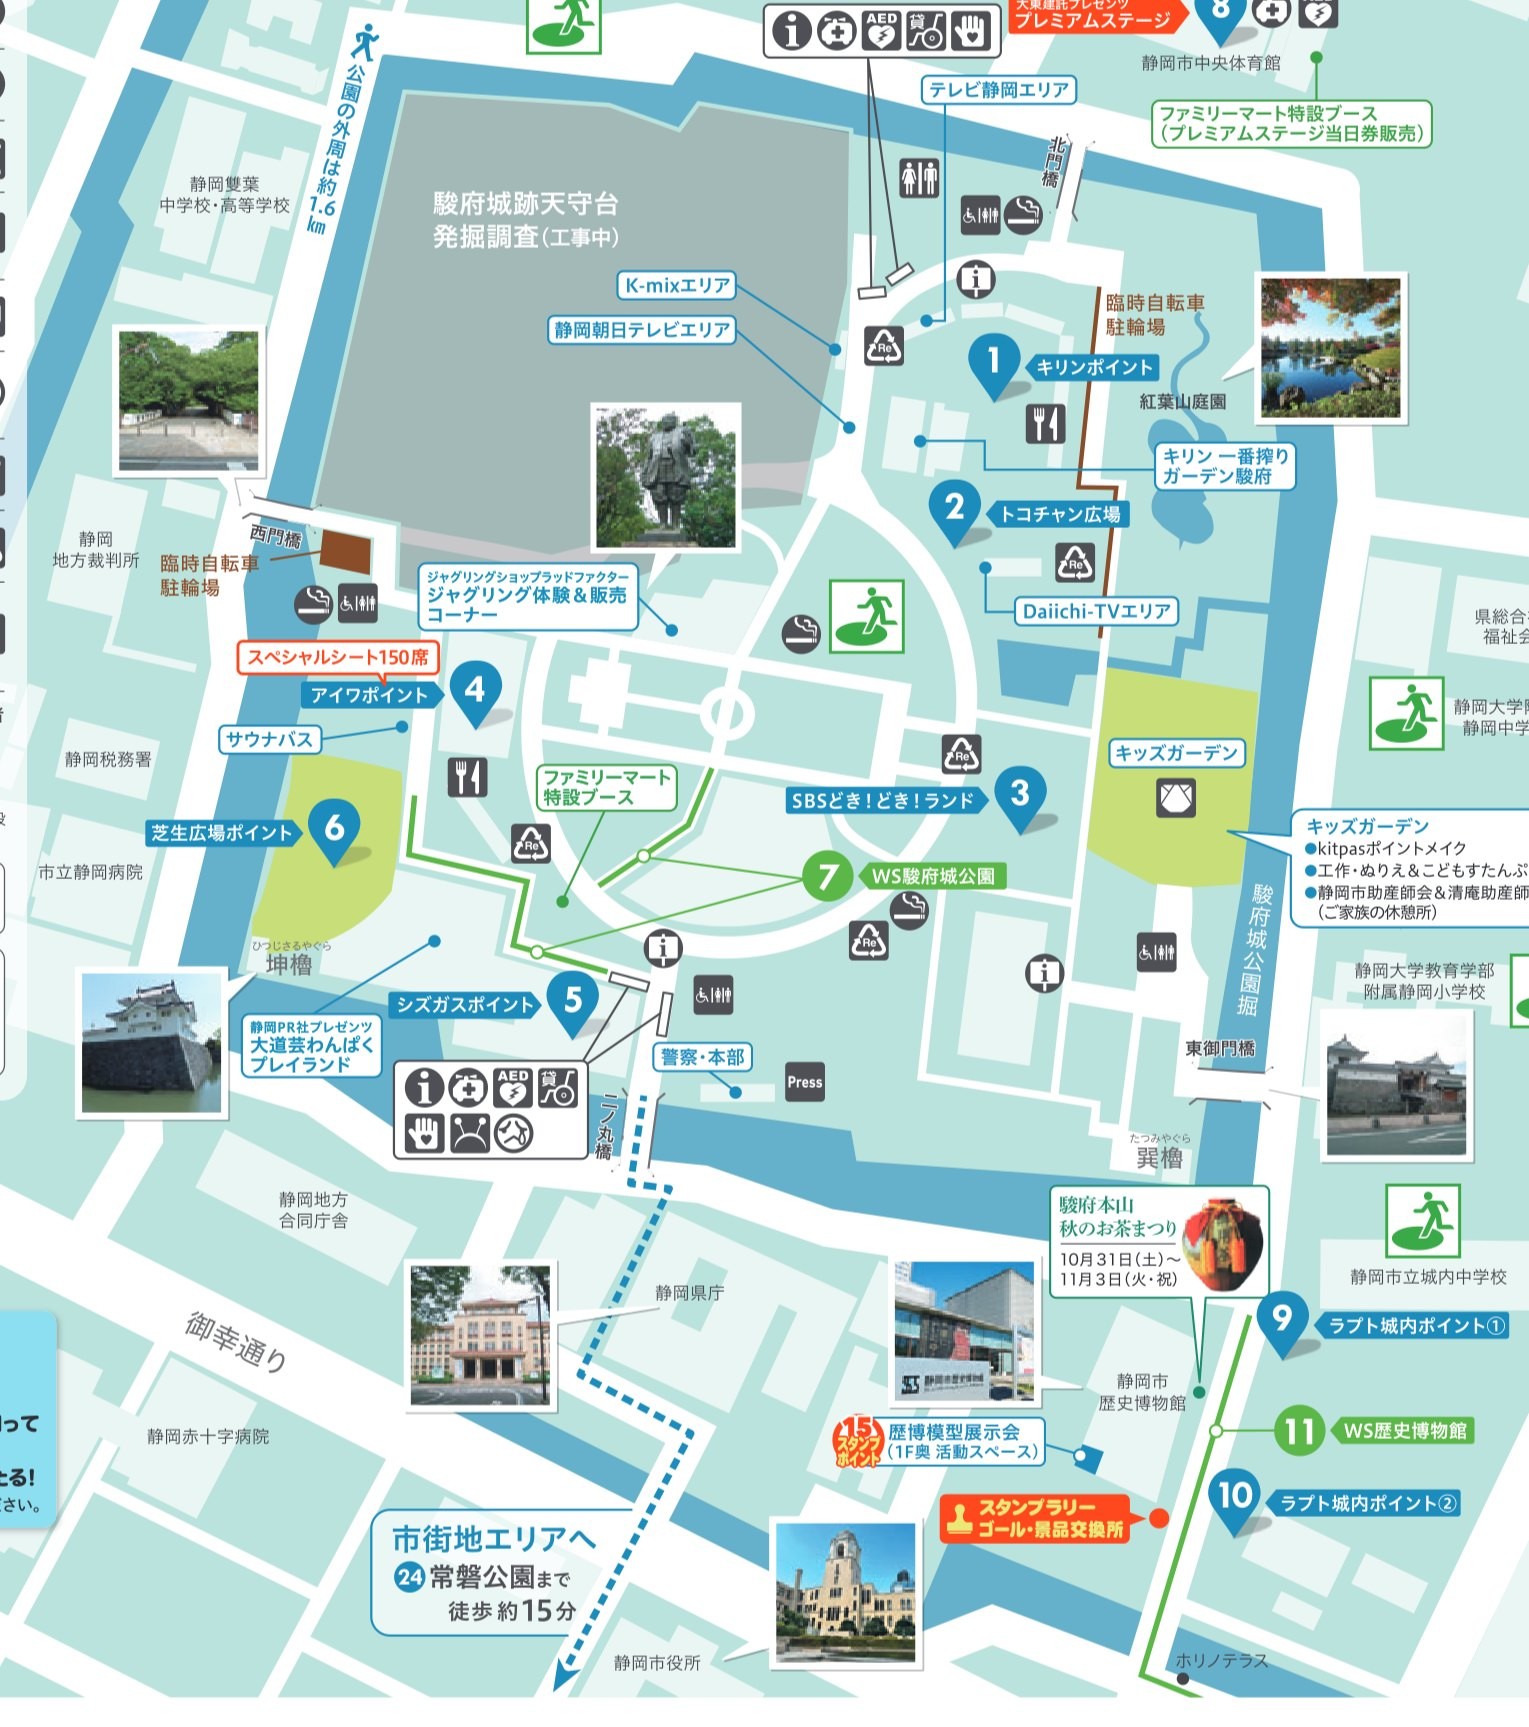
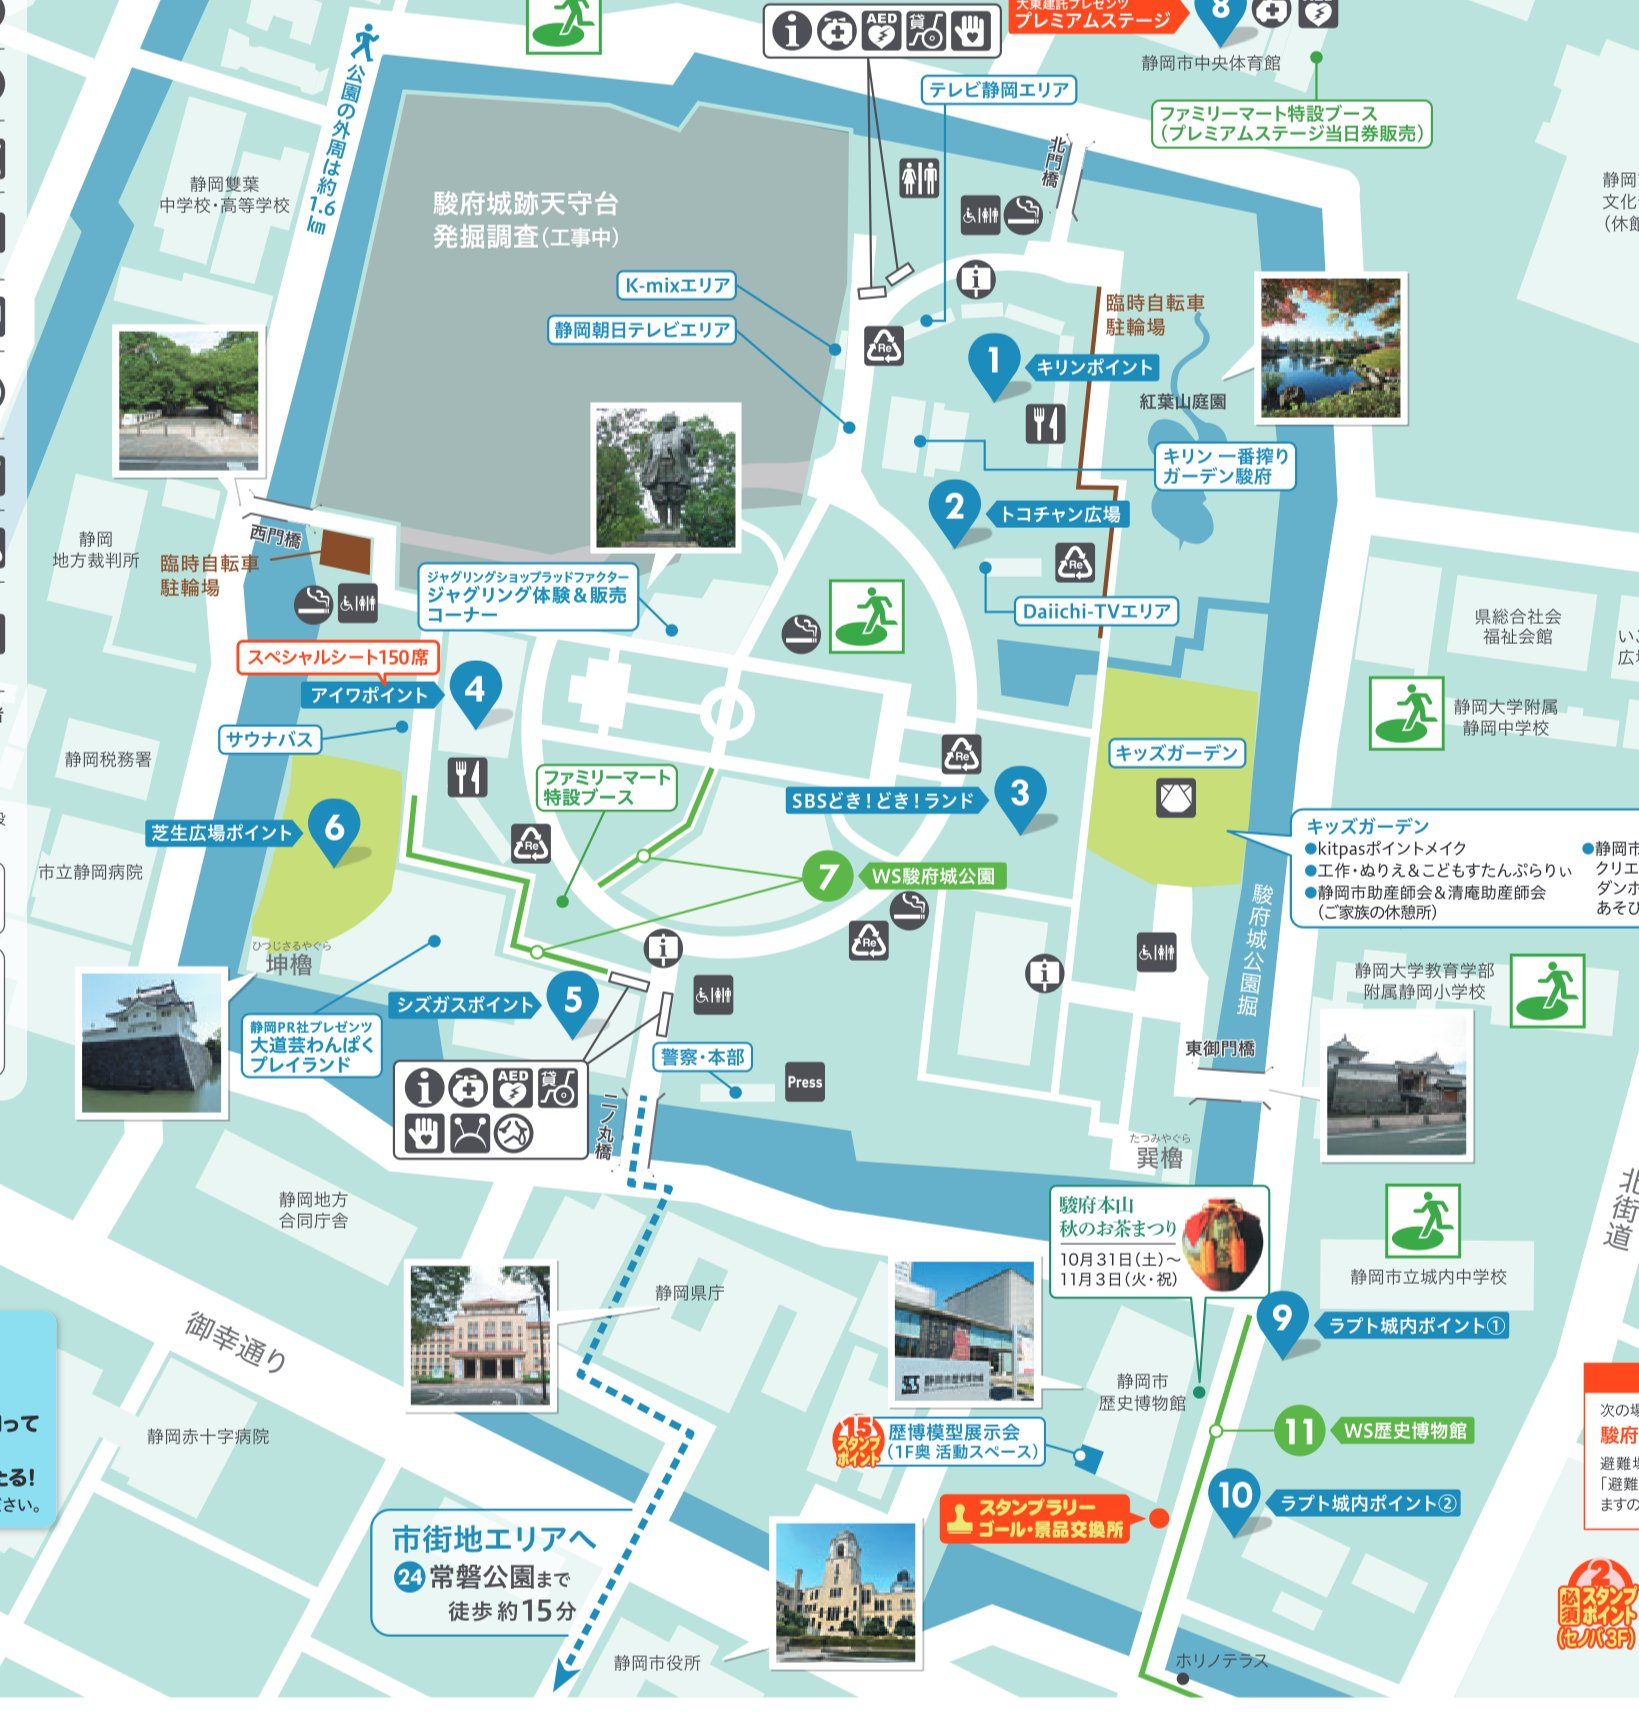
地図の右端を広げて会場ラベルを収める / 探すタブに有料ステージの扱いを明記

diff --git a/index.html b/index.html
@@ -152,7 +152,7 @@
   </section>
 
   <section id="v-find">
-    <p class="lead">見たい人が決まっているなら「アーティスト」から。時間だけ決まっているなら上の枠から。</p>
+    <p class="lead">見たい人が決まっているなら「アーティスト」から。時間だけ決まっているなら上の枠から。園内と歴博エリアの無料会場だけを載せている（有料プレミアムステージの出演は「地図」タブ）。</p>
     <div class="slots" id="slots"></div>
     <div id="slotlist"></div>
     <div id="artists"></div>

diff --git a/sw.js b/sw.js
@@ -1,4 +1,4 @@
-const CACHE = 'daidogei2026-v1';
+const CACHE = 'daidogei2026-v2';
 const FILES = ['./', './index.html', './data.js', './assets/parkmap.jpg'];
 self.addEventListener('install', (e) => {
   e.waitUntil(caches.open(CACHE).then((c) => c.addAll(FILES)).then(() => self.skipWaiting()));
